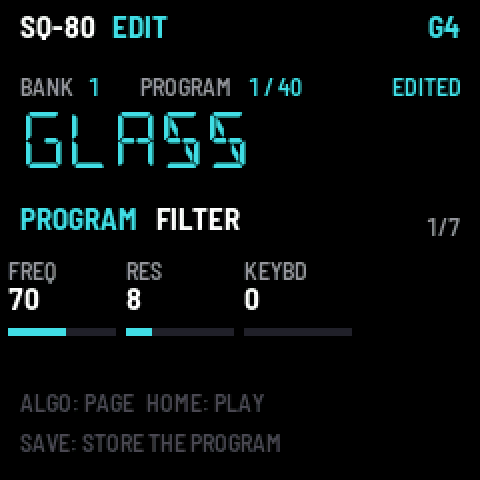
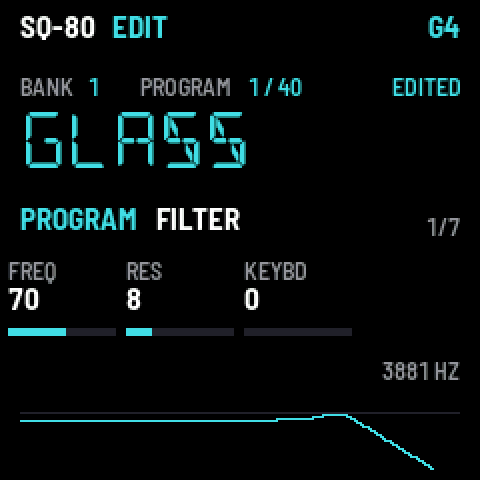
SQ-80 0.13.2: the filter drawn (its response at C4, the cutoff in Hz, KEYBD's reach at C2 and C6) on the FM-1's FILTER pages and in the editor; sq80_filter_cutoff / _db / _curve
Claude-Session: https://claude.ai/code/session_015VhpbFzKfhxYN2TEVSjumr

diff --git a/app/editor/index.html b/app/editor/index.html
@@ -552,6 +552,33 @@ function lfoDraw(l) {
   });
 }
 
+function filterDraw() {   // the low-pass's response, 20 Hz .. 20 kHz, +30 .. -42 dB; at C4, and with KEYBD at C2 and C6
+  const cv = canvas((c) => {
+    const x = ctx2(c), top = 30, span = 72, ky = E.param_get(PRG(PF.KEYBD));
+    const yOf = (db) => Math.max(0, Math.min(c.height - 1, (top - db) * (c.height - 1) / span));
+    const xOf = (hz) => Math.log2(hz / 20) / Math.log2(1000) * c.width;
+    x.fillStyle = "#2f2f2f"; x.fillRect(0, yOf(0), c.width, 1);
+    x.fillStyle = "#1c1c1c";
+    for (const f of [100, 1000, 10000]) x.fillRect(xOf(f), 0, 1, c.height);
+    const curve = (key, color, width) => {
+      const fc = E.filter_cutoff(key), pts = [];
+      for (let i = 0; i <= c.width; i += 2) pts.push([i, yOf(E.filter_db(20 * Math.pow(1000, i / c.width), fc))]);
+      x.strokeStyle = color; x.lineWidth = width; x.beginPath();
+      pts.forEach(([a, b], i) => (i ? x.lineTo(a, b) : x.moveTo(a, b)));
+      x.stroke();
+      return fc;
+    };
+    if (ky) { curve(36, "#3c5a5c", 2); curve(84, "#3c5a5c", 2); }
+    const fc = curve(60, HI, 2.5);
+    x.fillStyle = "#8a857a"; x.font = "20px system-ui"; x.textAlign = "right";
+    x.fillText((ky ? "C4  " : "") + (fc >= 1000 ? (fc / 1000).toFixed(fc >= 10000 ? 1 : 2) + " kHz" : Math.round(fc) + " Hz"), c.width - 6, 24);
+    x.textAlign = "left"; x.fillStyle = "#4a4a4a"; x.font = "16px system-ui";
+    x.fillText("100", xOf(100) + 4, c.height - 6); x.fillText("1k", xOf(1000) + 4, c.height - 6); x.fillText("10k", xOf(10000) + 4, c.height - 6);
+  });
+  cv.height = 200; cv.style.height = "92px";   // (taller than the others: the peak and the slope)
+  return cv;
+}
+
 const PAGES = {
   "Oscillators": () => [0, 1, 2].map((o) => card(`OSC ${o + 1}`, waveDraw(o),
     ctl(OSC(o, OF.WAVE), "WAVE"), ctl(OSC(o, OF.OCT), "OCT"), ctl(OSC(o, OF.SEMI), "SEMI"), ctl(OSC(o, OF.FINE), "FINE"),
@@ -565,7 +592,7 @@ const PAGES = {
     ctl(LFO(l, LF.L2), "L2", HELP.L2L), ctl(LFO(l, LF.DELAY), "DELAY"), ctl(LFO(l, LF.MOD), "MOD"),
     ctl(LFO(l, LF.HUMAN), "HUMAN"), ctl(LFO(l, LF.RESET), "RESET"))),
   "Filter and output": () => [
-    card("Filter", ctl(PRG(PF.FREQ), "FREQ", "cutoff"), ctl(PRG(PF.RES), "RES"), ctl(PRG(PF.KEYBD), "KEYBD"),
+    card("Filter", filterDraw(), ctl(PRG(PF.FREQ), "FREQ", "cutoff"), ctl(PRG(PF.RES), "RES"), ctl(PRG(PF.KEYBD), "KEYBD"),
       modRow(PRG(PF.FMOD1), PRG(PF.FDEPTH1), "MOD 1"), modRow(PRG(PF.FMOD2), PRG(PF.FDEPTH2), "MOD 2")),
     card("Output", ctl(PRG(PF.FINAL), "FINAL", HELP.FINAL), ctl(PRG(PF.PAN), "PAN", "left 0 .. 15 right"),
       modRow(PRG(PF.PANMOD), PRG(PF.PANDEPTH), "PAN MOD")),

diff --git a/app/app.c b/app/app.c
@@ -2034,6 +2034,55 @@ static void lfo_draw(int32_t x, int32_t y, int32_t w, int32_t h)
     }
 }
 
+/* FILTER: the low-pass's response, 20 Hz to 20 kHz across, +30 dB at the top to -42 at the bottom (0 dB a line), at
+ * middle C (C4, cyan; its cutoff in Hz at the top right); with KEYBD, at C2 and C6 too (dim): how far it follows */
+static void filter_curve_draw(int32_t x, int32_t y, int32_t w, int32_t h, int32_t key, uint32_t col)
+{
+    signed char db[220];
+    int32_t c, last = -1;
+    sq80_filter_curve(sq80_param_get(prog_raw, SQ80_PARAM_PROG(SQ80_P_FREQ)),
+                      sq80_param_get(prog_raw, SQ80_PARAM_PROG(SQ80_P_KEYBD)),
+                      sq80_param_get(prog_raw, SQ80_PARAM_PROG(SQ80_P_RES)), (int)key, db, (int)w);
+    for (c = 0; c < w; c++) {
+        int32_t yy = (30 - db[c]) * (h - 1) / 72, a, b;
+        yy = yy < 0 ? 0 : yy > h - 1 ? h - 1 : yy;
+        a = b = yy;
+        if (last >= 0) {
+            a = last < yy ? last : yy;
+            b = last > yy ? last : yy;
+        }
+        if (a < h - 1)                       /* (nothing drawn along the floor) */
+            cv_rect(x + c, y + a, 1, (b < h - 1 ? b : h - 2) - a + 1, col);
+        last = yy;
+    }
+}
+
+static void filter_draw(int32_t x, int32_t y, int32_t w, int32_t h)
+{
+    char t[16], n[12];
+    int32_t hz = (int32_t)sq80_filter_cutoff(sq80_param_get(prog_raw, SQ80_PARAM_PROG(SQ80_P_FREQ)),
+                                              sq80_param_get(prog_raw, SQ80_PARAM_PROG(SQ80_P_KEYBD)), 60);
+    cv_rect(x, y + 30 * (h - 1) / 72, w, 1, C_LINE);   /* 0 dB */
+    if (sq80_param_get(prog_raw, SQ80_PARAM_PROG(SQ80_P_KEYBD))) {
+        filter_curve_draw(x, y, w, h, 36, C_DIM);
+        filter_curve_draw(x, y, w, h, 84, C_DIM);
+    }
+    filter_curve_draw(x, y, w, h, 60, C_ACCENT);
+    if (hz >= 10000) {                       /* 12.3 KHZ, 1234 HZ */
+        int_text(hz / 1000, t);
+        text_cat(t, ".");
+        int_text(hz / 100 % 10, n);
+        text_cat(t, n);
+        text_cat(t, " KHZ");
+    } else {
+        int_text(hz, t);
+        text_cat(t, " HZ");
+    }
+    cv_text(x + w - text_w(&FONT_XS, t), y - 8, &FONT_XS, t, C_GRAY);
+    if (sq80_param_get(prog_raw, SQ80_PARAM_PROG(SQ80_P_KEYBD)))   /* (with KEYBD the cutoff depends on the key) */
+        cv_text(x + w - text_w(&FONT_XS, t) - text_w(&FONT_XS, "C4 "), y - 8, &FONT_XS, "C4", C_DIM);
+}
+
 /* SEQ: the 16 steps of the page as tiles (a note cyan, an accent white, a slide with a tail, a tie joined to the
  * step before, past the length dim), the playhead framed; under them the page, the keys' mode, the transport */
 static void seq_draw(void)
@@ -2319,8 +2368,11 @@ static void draw(void)
         cv_blit(0, 100);
         knob_cells(128, 0);
         cv_begin(240, 66, C_BLACK);
-        if (ed.sec == ED_OSC || ed.sec == ED_ENV || ed.sec == ED_LFO) {   /* a picture in place of the help */
-            if (ed.sec == ED_OSC)
+        if (ed.sec == ED_OSC || ed.sec == ED_ENV || ed.sec == ED_LFO ||
+            (ed.sec == ED_PROG && ed.page[ED_PROG] % 7u <= 1u)) {   /* a picture in place of the help */
+            if (ed.sec == ED_PROG)
+                filter_draw(10, 12, 220, 50);
+            else if (ed.sec == ED_OSC)
                 wave_draw(10, 8, 220, 52);
             else if (ed.sec == ED_ENV)
                 env_draw(10, 8, 220, 52);

diff --git a/src/sq80/sq80_synth.c b/src/sq80/sq80_synth.c
@@ -570,3 +570,31 @@ void sq80_render(sq80_synth *s, float *left, float *right, int n) {
     sq80_render_part(s, left, right, n, 0, SQ80_VOICES);
     sq80_render_commit(s, n);
 }
+
+/* ------------------------------------------------------------------------- the filter, drawn */
+
+float sq80_filter_cutoff(int freq, int keybd, int key) {
+    float hz = cutoff_hz((float)clampi(freq, 0, 127) +
+                         (float)clampi(keybd, 0, 63) / 63.0f * SQ80_KEY_TRACK_AT_MAX * (float)(key - SQ80_KEY_TRACK_CENTER));
+    return hz > SQ80_DOC_RATE * 0.45f ? SQ80_DOC_RATE * 0.45f : hz;   /* (filter_set's limit) */
+}
+
+float sq80_filter_db(float hz, float cutoff, int res) {
+    /* H(jw) = (1 + c k) / ((1 + jw/wc)^4 + k): (1 + jx)^4 = (1 - 6x^2 + x^4) + j 4x (1 - x^2) */
+    const float k = SQ80_RESONANCE[res & 31], x = hz / (cutoff > 1.0f ? cutoff : 1.0f), x2 = x * x;
+    const float re = 1.0f - 6.0f * x2 + x2 * x2 + k, im = 4.0f * x * (1.0f - x2), g = 1.0f + SQ80_FILTER_BASS_COMPENSATION * k;
+    float m = g * g / (re * re + im * im + 1e-12f);
+    return 3.0103f * sq80_log2f(m > 1e-12f ? m : 1e-12f);
+}
+
+void sq80_filter_curve(int freq, int keybd, int res, int key, signed char *db, int n) {
+    const float fc = sq80_filter_cutoff(freq, keybd, key);
+    float hz = 20.0f, r;
+    int i;
+    if (n < 2) return;
+    r = sq80_exp2f(9.965784f / (float)(n - 1));   /* (1000 ^ (1 / (n - 1)): 20 Hz to 20 kHz) */
+    for (i = 0; i < n; ++i, hz *= r) {
+        float d = sq80_filter_db(hz, fc, res);
+        db[i] = (signed char)(d > 60.0f ? 60 : d < -120.0f ? -120 : (int)(d + (d < 0.0f ? -0.5f : 0.5f)));
+    }
+}

diff --git a/app/editor/editor_wasm.c b/app/editor/editor_wasm.c
@@ -115,6 +115,13 @@ EXPORT int param_kind(int id) { const sq80_param_info *in = sq80_param(id); retu
 EXPORT int param_get(int id) { return sq80_param_get(program, id); }
 EXPORT void param_set(int id, int v) { sq80_param_set(program, id, v); }
 EXPORT void init_program(void) { sq80_init_program(program); }
+/* the filter's picture: the cutoff (Hz) for a key, and the response (dB) at hz (sq80_filter_*) */
+EXPORT float filter_cutoff(int key)
+{
+    return sq80_filter_cutoff(sq80_param_get(program, SQ80_PARAM_PROG(SQ80_P_FREQ)),
+                              sq80_param_get(program, SQ80_PARAM_PROG(SQ80_P_KEYBD)), key);
+}
+EXPORT float filter_db(float hz, float cutoff) { return sq80_filter_db(hz, cutoff, sq80_param_get(program, SQ80_PARAM_PROG(SQ80_P_RES))); }
 /* a new program at random from this one: AMOUNT 5..100, PART 0 all, 1 osc, 2 filter, 3 env, 4 lfo, 5 mod; SEED from
  * the page (a new series each time), named RND + SEQ */
 EXPORT void randomize(int amt, int part, unsigned seed, int seq)

diff --git a/src/sq80/sq80.h b/src/sq80/sq80.h
@@ -177,6 +177,14 @@ void sq80_render_part(sq80_synth *s, float *left, float *right, int n, int first
 void sq80_render_commit(sq80_synth *s, int n);
 int sq80_active_voices(const sq80_synth *s);
 
+/* For a picture of the filter (the FM-1's FILTER page, the editor): the cutoff in Hz that FREQ (0..127) and KEYBD
+ * (0..63) give a key, as a voice sets it (no modulation); and the 4-pole low-pass's response at hz, in dB, for that
+ * cutoff and RES (0..31): the analog ladder the engine models, with its passband compensation */
+float sq80_filter_cutoff(int freq, int keybd, int key);
+float sq80_filter_db(float hz, float cutoff, int res);
+/* the response from 20 Hz to 20 kHz in n columns (log spaced), in whole dB (-120..60), for FREQ, KEYBD, RES and a key */
+void sq80_filter_curve(int freq, int keybd, int res, int key, signed char *db, int n);
+
 #ifdef __cplusplus
 }
 #endif

diff --git a/src/sq80/sq80_port.h b/src/sq80/sq80_port.h
@@ -13,12 +13,14 @@
 #define sq80_powf fm_powf
 #define sq80_tanf fm_tanf
 #define sq80_fabsf fm_fabsf
+#define sq80_log2f fm_log2f
 #else
 #include <math.h>
 #define sq80_exp2f exp2f
 #define sq80_powf powf
 #define sq80_tanf tanf
 #define sq80_fabsf fabsf
+#define sq80_log2f log2f
 #endif
 
 static inline void sq80_zero(void *p, size_t n) {

diff --git a/app/docs/MANUAL.md b/app/docs/MANUAL.md
@@ -100,7 +100,7 @@ Four buttons open the editor. **ALGORITHM** turns the pages of each; **KNOB 1–
 - **ENV** — the four **envelopes** (press again: ENV 1–4; **ENV 4 is the volume**). Pages: LEVELS, TIMES, KEY. The
   shape is drawn.
 - **LFO** — the three **LFOs**. Pages: WAVE (rate, shape, depths), MORE (delay, mod, humanize, reset).
-- **EDIT** — the rest: FILTER, FILTER MOD, OUTPUT, MODES (sync, AM, mono, glide), RESTART, and the **name**
+- **EDIT** — the rest: FILTER (its response drawn: the curve at C4, its cutoff in Hz, and with KEYBD the curves at C2 and C6 dim), FILTER MOD, OUTPUT, MODES (sync, AM, mono, glide), RESTART, and the **name**
   (NAME 1–4, NAME 5–6: one letter per knob).
 
 Every value works as on the SQ-80. On a computer, the **Editor** page shows them all at once.
